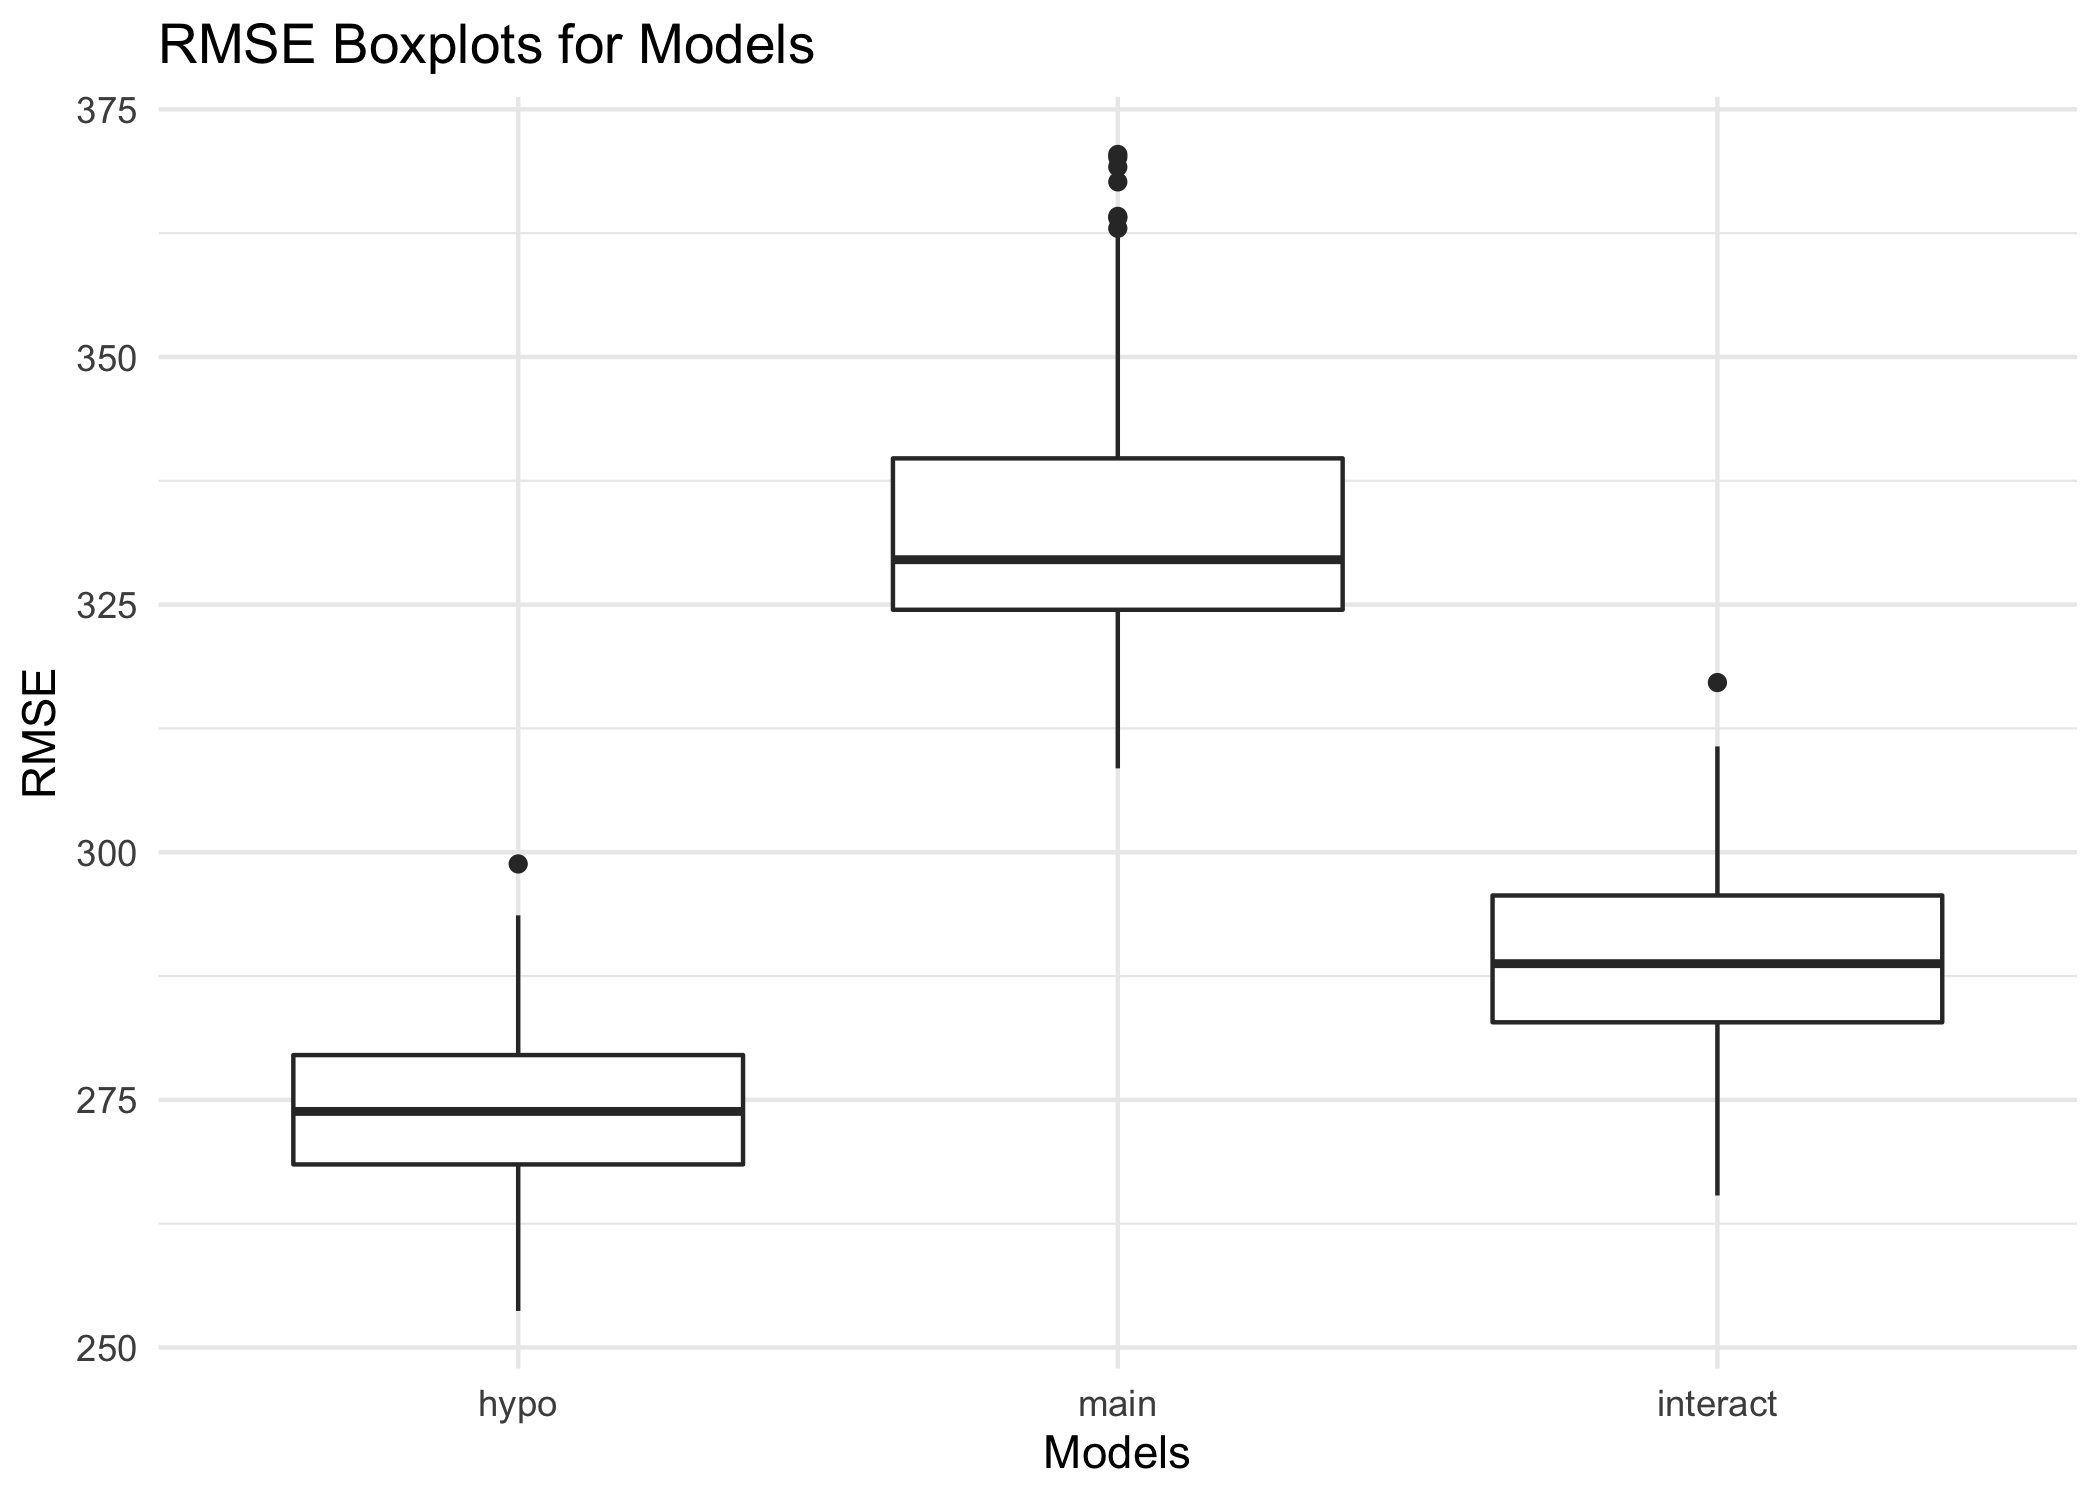
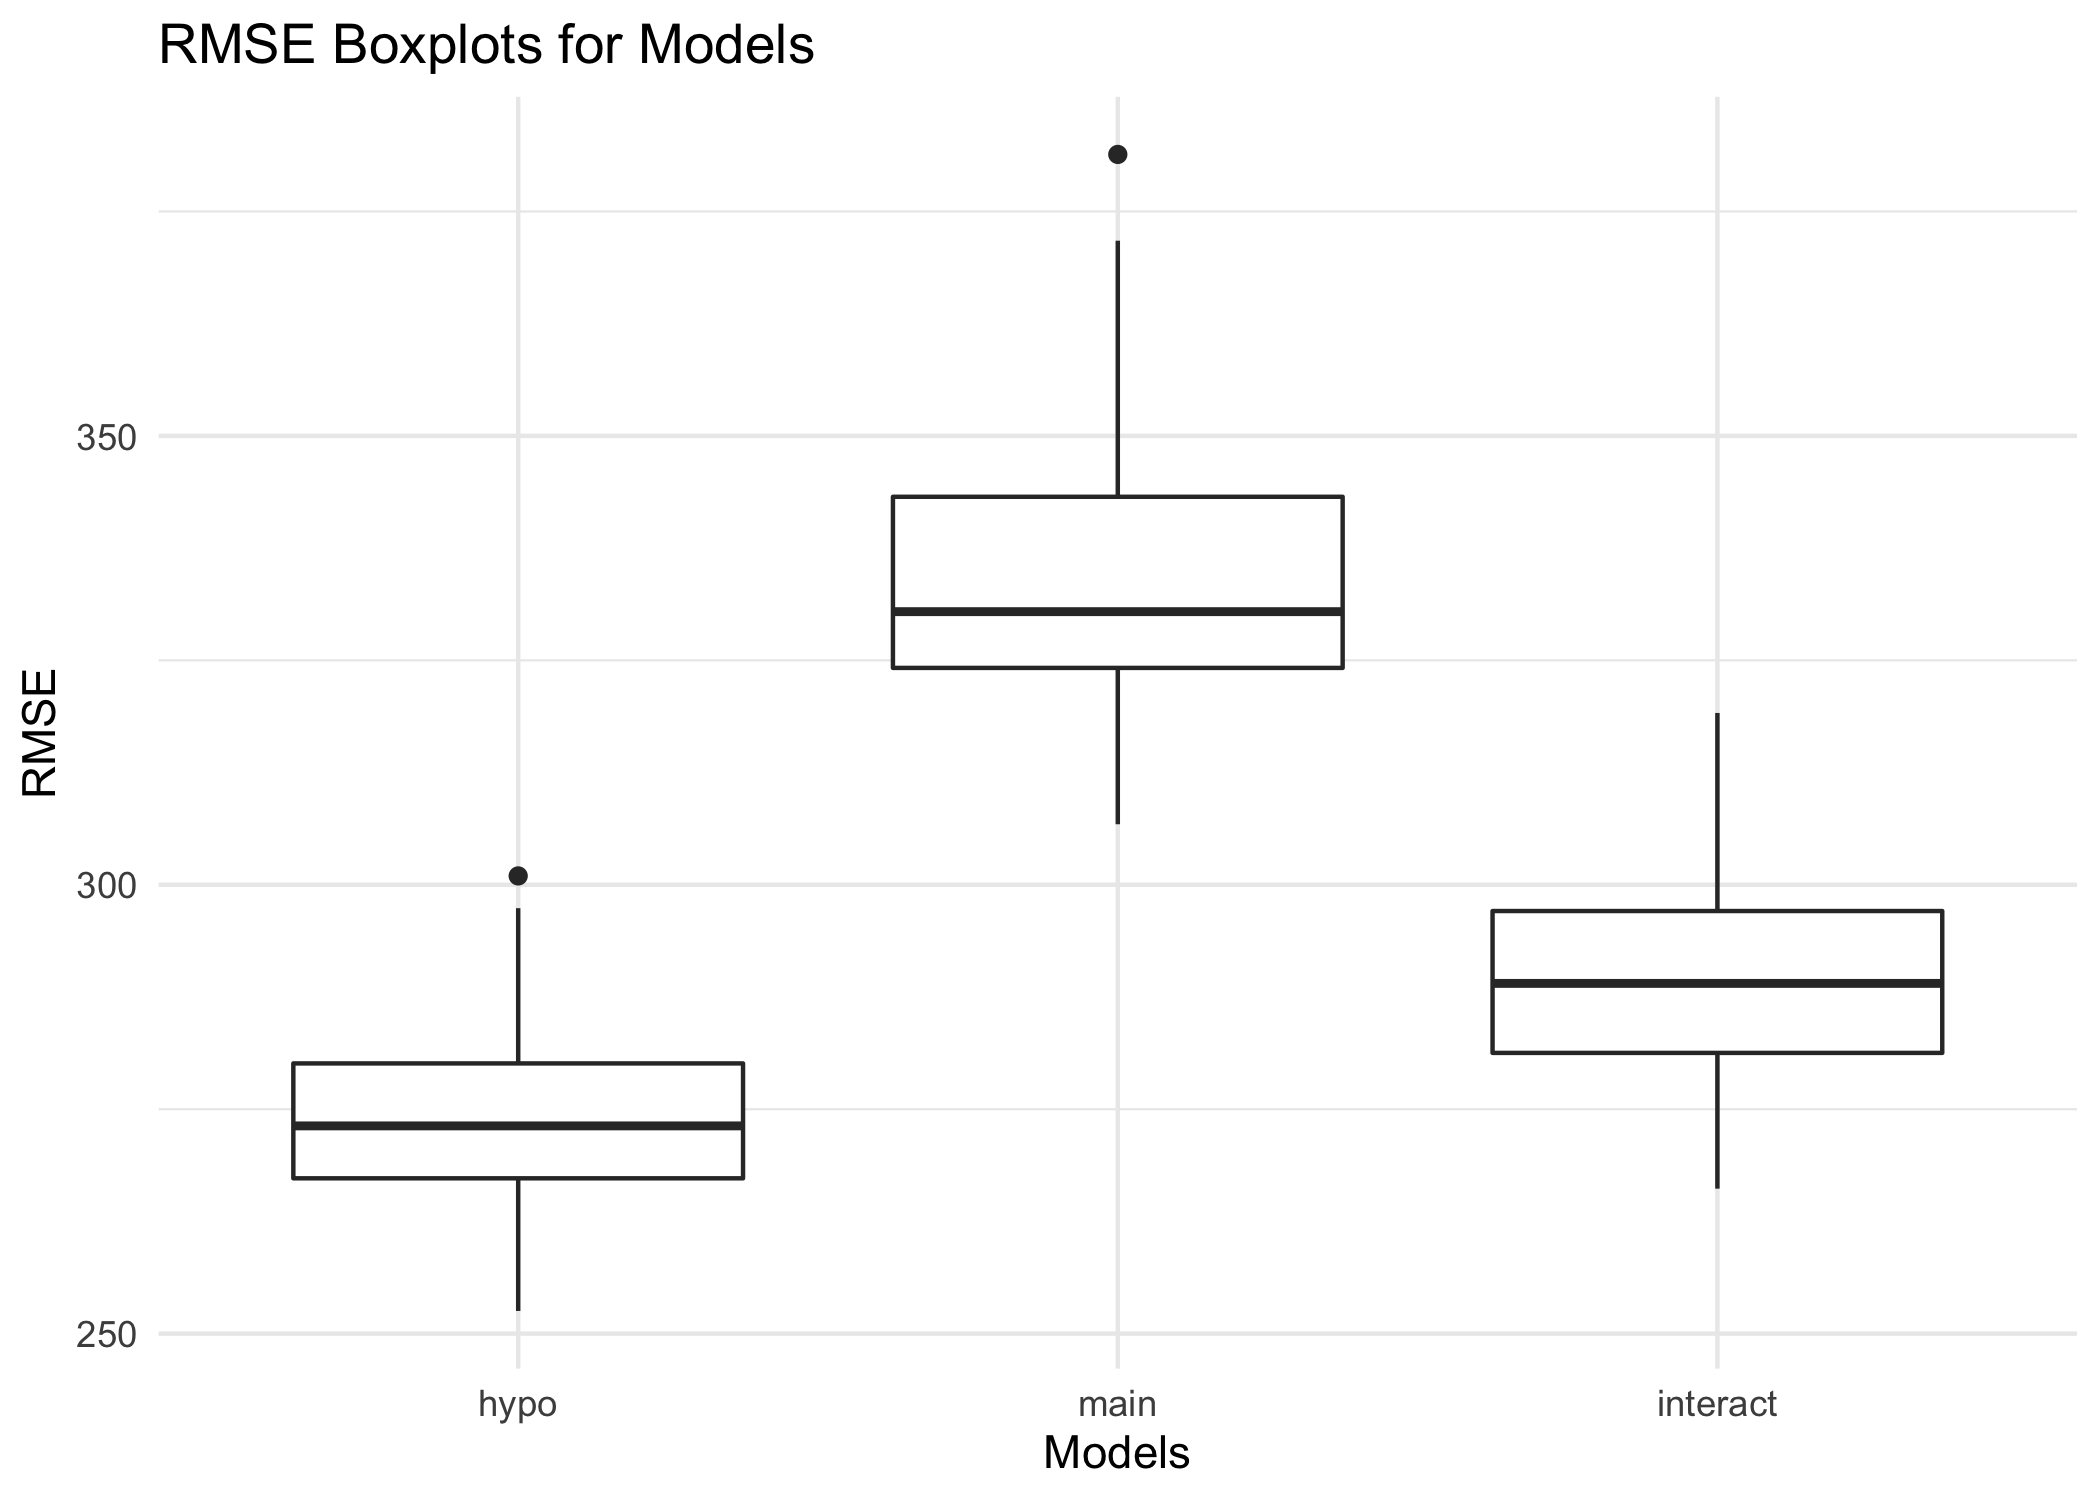
edit minor typo

diff --git a/p8105_hw6_tl3196.md b/p8105_hw6_tl3196.md
@@ -1,4 +1,4 @@
-p8106_hw6_tl3196
+p8105_hw6_tl3196
 ================
 Tianshu Liu
 
@@ -354,7 +354,7 @@ best_lambda <- cv_model$lambda.min
 best_lambda
 ```
 
-    ## [1] 2.293565
+    ## [1] 0.9928296
 
 ``` r
 # produce plot of test MSE by lambda value
@@ -371,26 +371,26 @@ coef(best_model)
 
     ## 20 x 1 sparse Matrix of class "dgCMatrix"
     ##                        s0
-    ## (Intercept) -6166.3978196
-    ## babysex        27.2732837
-    ## bhead         133.8364229
-    ## blength        76.2453713
-    ## delwt           1.1322703
-    ## fincome         0.6079227
-    ## frace         -10.8972942
-    ## gaweeks        11.6745649
+    ## (Intercept) -6209.0728329
+    ## babysex        30.1222861
+    ## bhead         134.1516631
+    ## blength        76.3148091
+    ## delwt           1.1329854
+    ## fincome         0.6313574
+    ## frace         -11.5587799
+    ## gaweeks        11.8777935
     ## malform         .        
-    ## menarche       -2.4494482
-    ## mheight         4.7843781
-    ## momage          2.9249895
-    ## mrace         -41.7653275
-    ## parity         67.3126702
+    ## menarche       -3.4557365
+    ## mheight         5.1343732
+    ## momage          3.2209553
+    ## mrace         -42.2039320
+    ## parity         80.0751177
     ## pnumlbw         .        
     ## pnumsga         .        
     ## ppbmi           .        
     ## ppwt            .        
-    ## smoken         -3.3513032
-    ## wtgain          2.6500466
+    ## smoken         -3.5675235
+    ## wtgain          2.7523636
 
 Remain the predictors in the hypothesized regression model whose
 coefficients is not zero in the table above.
@@ -455,16 +455,16 @@ cv_df
     ## # A tibble: 100 × 9
     ##    train    test     .id   hypo_model main_model inter…¹ rmse_…² rmse_…³ rmse_…⁴
     ##    <list>   <list>   <chr> <list>     <list>     <list>    <dbl>   <dbl>   <dbl>
-    ##  1 <tibble> <tibble> 001   <lm>       <lm>       <lm>       266.    335.    285.
-    ##  2 <tibble> <tibble> 002   <lm>       <lm>       <lm>       272.    317.    284.
-    ##  3 <tibble> <tibble> 003   <lm>       <lm>       <lm>       277.    333.    292.
-    ##  4 <tibble> <tibble> 004   <lm>       <lm>       <lm>       260.    319.    277.
-    ##  5 <tibble> <tibble> 005   <lm>       <lm>       <lm>       279.    329.    293.
-    ##  6 <tibble> <tibble> 006   <lm>       <lm>       <lm>       278.    329.    290.
-    ##  7 <tibble> <tibble> 007   <lm>       <lm>       <lm>       265.    322.    275.
-    ##  8 <tibble> <tibble> 008   <lm>       <lm>       <lm>       278.    339.    295.
-    ##  9 <tibble> <tibble> 009   <lm>       <lm>       <lm>       277.    333.    294.
-    ## 10 <tibble> <tibble> 010   <lm>       <lm>       <lm>       280.    364.    298.
+    ##  1 <tibble> <tibble> 001   <lm>       <lm>       <lm>       253.    318.    271.
+    ##  2 <tibble> <tibble> 002   <lm>       <lm>       <lm>       287.    365.    308.
+    ##  3 <tibble> <tibble> 003   <lm>       <lm>       <lm>       270.    341.    292.
+    ##  4 <tibble> <tibble> 004   <lm>       <lm>       <lm>       278.    334.    296.
+    ##  5 <tibble> <tibble> 005   <lm>       <lm>       <lm>       271.    323.    288.
+    ##  6 <tibble> <tibble> 006   <lm>       <lm>       <lm>       283.    370.    304.
+    ##  7 <tibble> <tibble> 007   <lm>       <lm>       <lm>       273.    338.    288.
+    ##  8 <tibble> <tibble> 008   <lm>       <lm>       <lm>       270.    324.    283.
+    ##  9 <tibble> <tibble> 009   <lm>       <lm>       <lm>       280.    330.    298.
+    ## 10 <tibble> <tibble> 010   <lm>       <lm>       <lm>       279.    341.    297.
     ## # … with 90 more rows, and abbreviated variable names ¹interact_model,
     ## #   ²rmse_hypo, ³rmse_main, ⁴rmse_interact
 
